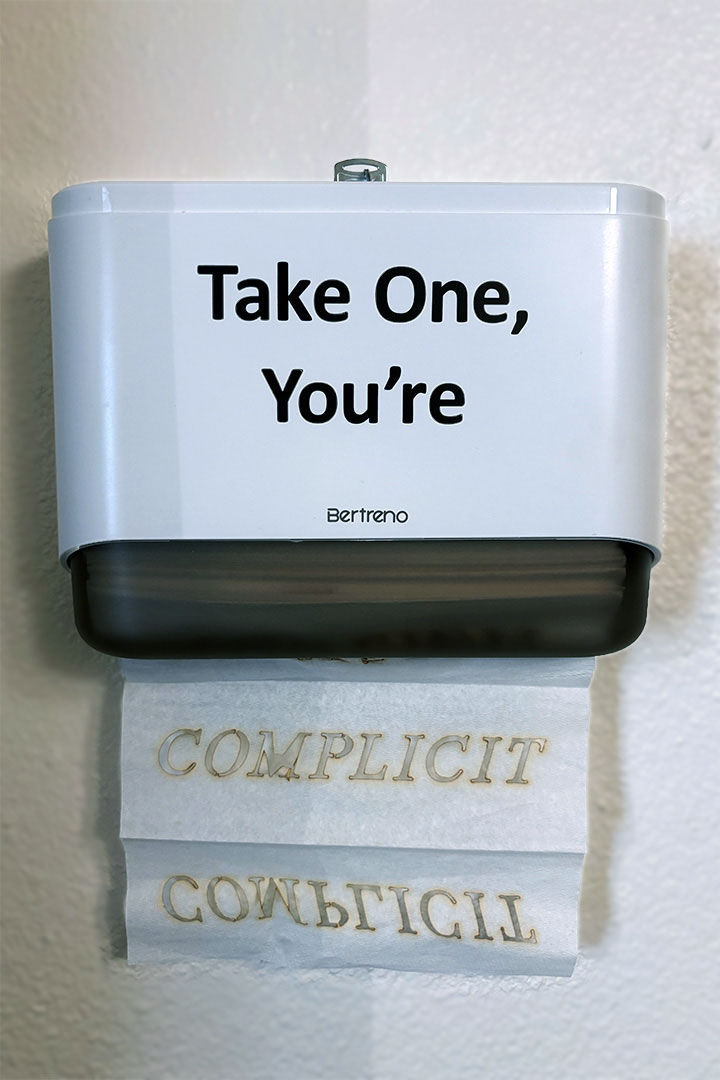
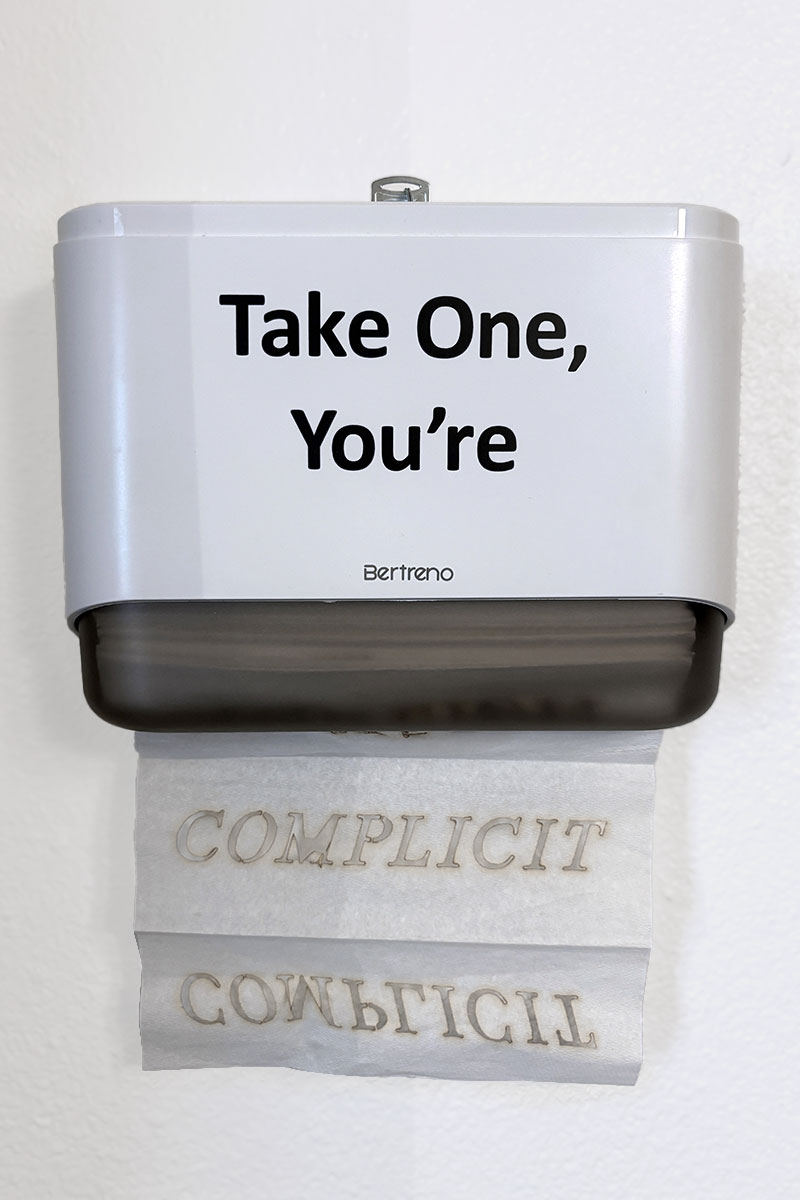
added photos to archive of unnamed women

diff --git a/archive-unnamed.html b/archive-unnamed.html
@@ -73,10 +73,10 @@
 
       <div class="col-md-6">
         <div class="card">
-          <img src="images/archive-unnamed-woman-formerslave.png" class="card-img-top img-fluid"
+          <img src="images/archive-unnamed-woman-warindustrytraining.png" class="card-img-top img-fluid"
             alt="slickrock metal ink jet print">
           <div class="card-body">
-             <p class="card-text">&ldquo;Former Slave in Alabama&rdquo;
+             <p class="card-text">&ldquo;War Industry Training for Public School Women&rdquo;
               <br><em>An Archive of Unnamed Women</em> New York Public Library Digital Collection Edition,
               2019-ongoing.<br> <small>5 by 7 inches on slickrock metallic paper</small></p>
           </div>
@@ -85,89 +85,54 @@
 
       <div class="col-md-6">
         <div class="card">
-          <img src="images/cyan-theSkysTheLimit-lg.jpg" class="card-img-top img-fluid"
-            alt="cyanotype print digital negatives">
+          <img src="images/archive-unnamed-woman-formerslave.png" class="card-img-top img-fluid"
+            alt="slickrock metal ink jet print">
           <div class="card-body">
-            <p class="card-text">&ldquo;The Sky&apos;s the Limit&rdquo; from <em>The Library of Congress, Remixed
-              </em>series, 2012. <br> <small>12 by 9 inches on water color paper</small></p>
+             <p class="card-text">&ldquo;Portrait of a Former Slave in Alabama&rdquo;
+              <br><em>An Archive of Unnamed Women</em> New York Public Library Digital Collection Edition,
+              2019-ongoing.<br> <small>5 by 7 inches on slickrock metallic paper</small></p>
           </div>
         </div>
       </div>
 
       <div class="col-md-6">
         <div class="card">
-          <img src="images/cyan-highAndDry-lg.jpg" class="card-img-top img-fluid"
-            alt="cyanotype print digital negatives">
+          <img src="images/archive-unnamed-woman-sewsarmy.png" class="card-img-top img-fluid"
+            alt="slickrock metal ink jet print">
           <div class="card-body">
-            <p class="card-text">&ldquo;High and Dry&rdquo; from <em>The Library of Congress, Remixed </em>series, 2012.
-              <br> <small>12 by 9 inches on water color paper</small></p>
+             <p class="card-text">&ldquo;Woman Sews Army Jackets&rdquo;
+              <br><em>An Archive of Unnamed Women</em> New York Public Library Digital Collection Edition,
+              2019-ongoing.<br> <small>5 by 7 inches on slickrock metallic paper</small></p>
           </div>
         </div>
       </div>
 
-      <div class="col-md-6">
-        <div class="card">
-          <img src="images/cyan-notMyCupOfTea-lg.jpg" class="card-img-top img-fluid"
-            alt="cyanotype print digital negatives">
-          <div class="card-body">
-            <p class="card-text">&ldquo;Not My Cup of Tea&rdquo; from <em>The Library of Congress, Remixed </em>series,
-              2012. <br> <small>12 by 9 inches on water color paper</small></p>
-          </div>
-        </div>
-      </div>
 
-      <div class="col-md-6">
-        <div class="card">
-          <img src="images/cyan-moneyToBurn-lg.jpg" class="card-img-top img-fluid"
-            alt="cyanotype print digital negatives">
-          <div class="card-body">
-            <p class="card-text">&ldquo;Money To Burn&rdquo; from <em>The Library of Congress, Remixed </em>series,
-              2012. <br> <small>12 by 9 inches on water color paper</small></p>
-          </div>
-        </div>
-      </div>
-
-      <div class="col-md-6">
-        <div class="card">
-          <img src="images/cyan-aLittleBirdieToldMe-lg.jpg" class="card-img-top img-fluid"
-            alt="cyanotype print digital negatives">
-          <div class="card-body">
-            <p class="card-text">&ldquo;A Little Birdie Told Me&rdquo; from <em>The Library of Congress, Remixed
-              </em>series, 2012. <br> <small>9 by 12 inches on water color paper</small></p>
-          </div>
-        </div>
-      </div>
-
-      <div class="col-md-6">
-        <div class="card">
-          <img src="images/cyan-foodForThought-lg.jpg" class="card-img-top img-fluid"
-            alt="cyanotype print digital negatives">
-          <div class="card-body">
-            <p class="card-text">&ldquo;Food for Thought&rdquo; from <em>The Library of Congress, Remixed </em>series,
-              2012. <br> <small>9 by 12 inches on water color paper</small></p>
-          </div>
-        </div>
-      </div>
 
       <section id="about" class="container p-5">
-        <h2>Cyanotypes</h2>
+        <h2>An Archive of Unnamed Women: Prints from the NYPL Edition</h2>
         <p>
-          Cyanotype wall hanging: <em>You've Got To Pick Up Every Stitch</em>, 2026. Made in the sun in Dallas, Texas.
-          Approx. 42 inches by 6 feet. Moonflower (also known as &ldquo;witches weed&rdquo;)stems, letters made with dried
-          moonflowers, cyanotype, water color paper, Angora wool.
+          An edition of ten prints on Slickrock metallic paper, 5 by 7 inches, mounted with photo corners, 2025.
         </p>
 
-        <p>Cyanotype prints: <em>The Library of Congress, Remixed</em>, 2012. Made in the sun in Long Beach, California.
-          Prints are 12 by 9 (or 9 by 12) inches. Digital negatives of collages combine images from the Library of Congress&apos;s
-          public, digital archive circa 2012.<br>
-          These collages juxtapose keywords within common English idioms. I wondered how these
-          idioms, which are often hard to translate,
-          might be reinterpreted through public imagery found in our commons, by way of photographs in the Library of Congress digital archive.
-          The collages are printed as cyanotypes, one of earliest photographic printing processes, which produce a cyan-blue
-          print when exposed to UV light (such as the sun). This series combines digital collage with a historical
-          photographic process to explore
-          the relationship between language and image, digital and analog methods, and the ways in which meaning is constructed and/or made ambiguous.
-        </p>
+        <p>
+          These prints are an outcome of burrough&apos;s collaborative web project, 
+          <a href = "https://archive-unnamed-women.vercel.app/" target="_blank" title="An Archive of Unnamed Women" style="border-bottom: 1px solid #3399ff;">
+            An Archive of Unnamed Women</a>, a speculative remix that recovers photographs of unidentified women
+          in digital photography collections. Visitors who search the site 
+          are presented with photographs of unnamed or uncited women. Upon clicking for more information, a 
+          description of womens&apos; experiences, randomly drawn from a parallel collection of women&apos;s writing about women
+          appear on top of the image. Who are these women? What were their experiences? We can only imagine, so we turned to literature to speculate.
+          This project highlights a critical discussion about gendered power relations in archived visual materials that 
+          are saved as part of a digital object&apos;s metadata.
+  </p>
+          <p>
+          Interactive project credits: Version 1
+          launched in 2018 with Al Madireddy (Computer Science and Engineering BA, UTD 2018), Dr. Sabrina Starnaman (Professor of Literature), Alyssa Yates (archival studies and literature BA, UTD 2018); and 
+          version 2 provided code updates by Nicolas Nguyen in 2022 (Business BA, UTD 2022).
+          </p>
+        
+      
 
       </section>
       <footer id="contact" class="container py-5 border-top">

diff --git a/index.html b/index.html
@@ -130,7 +130,7 @@
          <div class="col-md-6"> 
        
             <div class="card" style="width: 18rem;">
-                 <img src="images/archive-unnamed-woman-coffee-small.jpg" class="card-img-top" alt="archival print on metallic paper">
+                 <img src="images/archive-unnamed-woman-coffee-small.png" class="card-img-top" alt="archival print on metallic paper">
           <div class="card">
              <a href="archive-unnamed.html">
             <div class="card-body"><h3>An Archive of Unnamed Women</h3>
@@ -142,10 +142,10 @@
 
         <div class="col-md-6"> 
             <div class="card" style="width: 18rem;">
-                 <img src="images/complicit-small.jpg" class="card-img-top" alt="type cut from paper towels">
+                 <img src="images/complicit-small.png" class="card-img-top" alt="type cut from paper towels">
           <div class="card">
              <a href="type.html">
-            <div class="card-body"><h3>Type in Action</h3>
+            <div class="card-body"><h3>Digital Poetry: Interactives and Installations</h3>
             </a>
             </div>
           </div>
